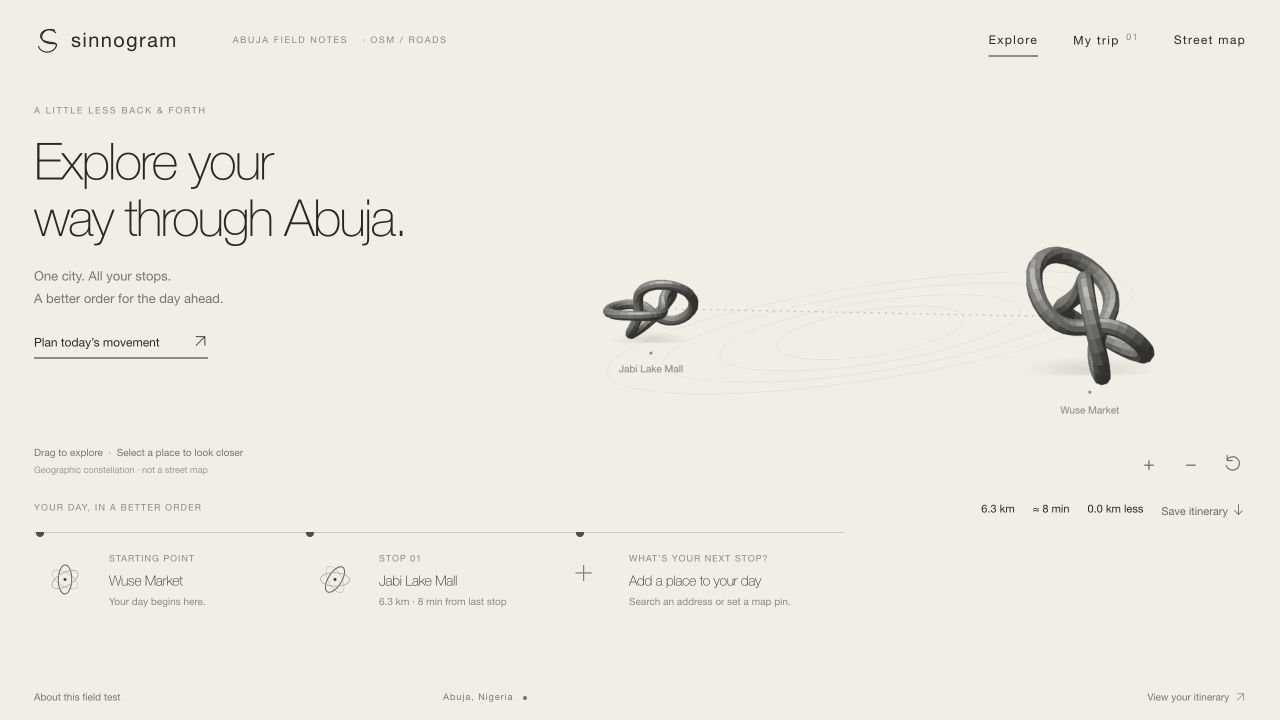
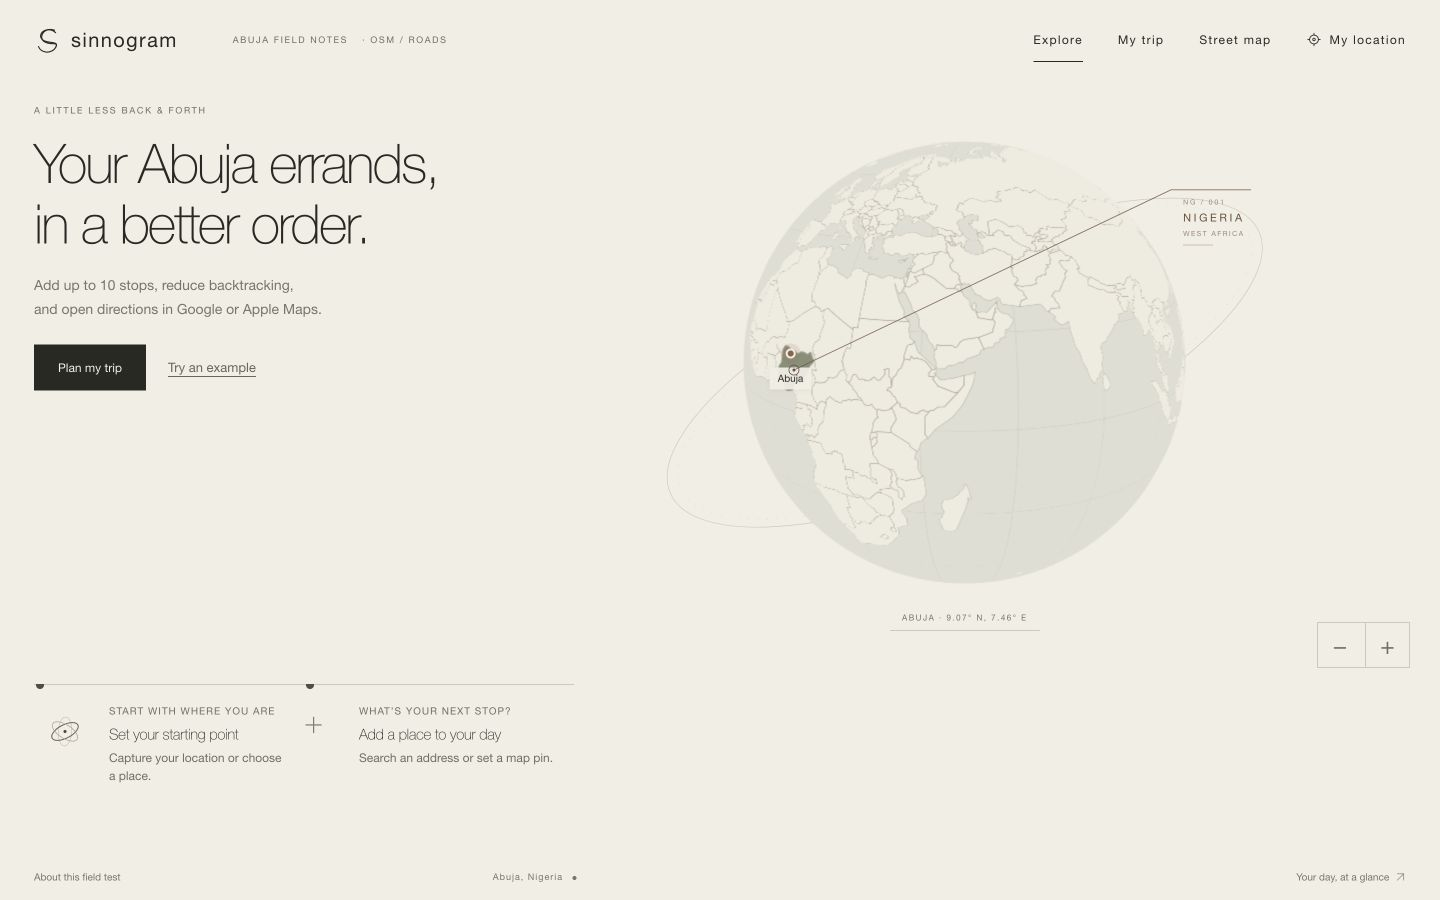
update

diff --git a/web/index.html b/web/index.html
@@ -1,9 +1,9 @@
 <!doctype html>
 <html lang="en">
-<head><meta charset="utf-8"><meta name="viewport" content="width=device-width,initial-scale=1,viewport-fit=cover"><meta name="theme-color" content="#f1eee5"><title>Sinnogram — Your Abuja errands, in a better order</title><link rel="manifest" href="/manifest.webmanifest"><link rel="icon" href="/icon.svg"><link rel="apple-touch-icon" href="/apple-touch-icon.png"><link rel="stylesheet" href="/vendor/leaflet.css"><link rel="stylesheet" href="/vendor/maplibre-gl.css"><link rel="stylesheet" href="/style.css?v=focused-planner-20261028"><script src="/vendor/leaflet.js" defer></script><script src="/vendor/maplibre-gl.js" defer></script><script src="/scene.js?v=focused-planner-20261028" defer></script><script src="/location.js?v=focused-planner-20261028" defer></script><script src="/app.js?v=focused-planner-20261028" defer></script></head>
+<head><meta charset="utf-8"><meta name="viewport" content="width=device-width,initial-scale=1,viewport-fit=cover"><meta name="theme-color" content="#f1eee5"><title>Sinnogram — Your Abuja errands, in a better order</title><link rel="manifest" href="/manifest.webmanifest"><link rel="icon" href="/icon.svg"><link rel="apple-touch-icon" href="/apple-touch-icon.png"><link rel="stylesheet" href="/vendor/leaflet.css"><link rel="stylesheet" href="/vendor/maplibre-gl.css"><link rel="stylesheet" href="/style.css?v=sinnogram-brand-20261028"><script src="/vendor/leaflet.js" defer></script><script src="/vendor/maplibre-gl.js" defer></script><script src="/scene.js?v=sinnogram-brand-20261028" defer></script><script src="/location.js?v=sinnogram-brand-20261028" defer></script><script src="/app.js?v=sinnogram-brand-20261028" defer></script></head>
 <body>
 <a class="skip" href="#plan-panel">Skip to trip planner</a>
-<header class="header"><a class="wordmark" href="/" aria-label="Sinnogram home"><svg class="brand-symbol" viewBox="0 0 32 32" aria-hidden="true" fill="none" stroke="currentColor" stroke-width="1.3"><path d="M25 8C17-1 3 8 9 15c5 6 20 1 16 9S8 32 5 23"/><path d="M24 5C12 0 4 13 12 18s16-1 13 6"/></svg><span class="brand-name">sinnogram</span></a><span class="edition">ABUJA FIELD NOTES <span id="provider-label">· CONNECTING</span></span><nav aria-label="Main navigation"><button id="nav-explore" class="nav-item active">Explore</button><button id="nav-plan" class="nav-item">My trip <span id="nav-count">00</span></button><button id="nav-map" class="nav-item">Street map</button><button id="nav-locate" class="nav-item live-nav" type="button" aria-label="Show my live location">My location</button></nav></header>
+<header class="header"><a class="wordmark" href="/" aria-label="Sinnogram home"><svg class="brand-symbol" viewBox="0 0 32 32" aria-hidden="true" fill="none" stroke="currentColor" stroke-width="1.3"><path d="M25 8C17-1 3 8 9 15c5 6 20 1 16 9S8 32 5 23"/><path d="M24 5C12 0 4 13 12 18s16-1 13 6"/></svg><span class="brand-name">sinnogram</span></a><span class="edition">ABUJA FIELD NOTES <span id="provider-label">· CONNECTING</span></span><nav aria-label="Main navigation"><button id="nav-explore" class="nav-item active">Explore</button><button id="nav-plan" class="nav-item">My trip</button><button id="nav-map" class="nav-item">Street map</button><button id="nav-locate" class="nav-item live-nav" type="button" aria-label="Show my live location">My location</button></nav></header>
 <main class="experience" id="experience">
 <section class="stage" aria-label="Interactive trip exploration">
 <div id="scene" role="region" aria-label="Interactive globe centred on Abuja"><svg class="globe-orbit" viewBox="0 0 600 500" aria-hidden="true"><ellipse cx="300" cy="250" rx="278" ry="94" transform="rotate(-24 300 250)"/><ellipse cx="300" cy="250" rx="268" ry="88" transform="rotate(-24 300 250)"/></svg><div id="globe-map"></div><div id="nigeria-callout" class="nigeria-callout" hidden><svg id="nigeria-leader" aria-hidden="true"><path id="nigeria-leader-path"/><circle id="nigeria-target" r="5"/><circle id="nigeria-target-core" r="1.5"/></svg><div id="nigeria-label" class="nigeria-label"><span class="nigeria-label-code">NG / 001</span><strong>NIGERIA</strong><span>WEST AFRICA</span></div></div><p id="globe-status" class="micro" role="status">Opening your world…</p><button id="globe-home" class="globe-home" type="button">ABUJA · 9.07° N, 7.46° E</button></div>
@@ -24,7 +24,7 @@
 <section class="journey" aria-label="Your journey timeline"><div class="journey-caption"><div id="trip-stats" hidden><span id="total"></span><span id="time"></span><strong id="saving"></strong><button id="share-trip" class="inline-link">Share trip</button><button id="download" class="inline-link">Save itinerary <svg class="ui-icon" viewBox="0 0 24 24" aria-hidden="true" focusable="false" fill="none" stroke="currentColor" stroke-width="1.4" stroke-linecap="round" stroke-linejoin="round"><path d="M12 4v16m-6-6 6 6 6-6"/></svg></button></div></div><div id="timeline" class="timeline"></div></section>
 </main>
 <footer><button id="about" class="footer-link">About this field test</button><span id="footer-status">Abuja, Nigeria <span class="status-dot"></span></span><button id="overview" class="footer-link">Your day, at a glance <svg class="ui-icon" viewBox="0 0 24 24" aria-hidden="true" focusable="false" fill="none" stroke="currentColor" stroke-width="1.4" stroke-linecap="round" stroke-linejoin="round"><path d="M5 19 19 5M5 5h14v14"/></svg></button></footer>
-<dialog id="about-dialog"><button id="close-about" class="close" aria-label="Close about">×</button><p class="eyebrow">SINNOGRAM / OPEN BETA</p><h2>Less backtracking.<br>More of your day.</h2><p>A Go route planner for your day across Abuja. Choose stops, confirm their locations, and organize the order of your trip.</p><p>The explore globe shows country outlines and your places in geographic context. Open Street map for roads and exact entrance pins. Globe connections illustrate visit order, not a driving path.</p><p>Live location is active while this website is open. It pauses in the background and requests a fresh fix when you return. It does not provide reliable tracking with the browser closed or phone locked.</p><p>Globe: MapLibre GL JS and public-domain Natural Earth country boundaries.</p><p>Search: local OSM/Overture records and Nominatim. Business listings may be outdated; confirm branch and entrance. Road estimates: OSRM / FOSSGIS. Free beta services: light use, shared request limits, no live traffic or uptime guarantee. Your searches and pins go to these providers. Avoid confidential addresses.</p><p><a href="https://www.openstreetmap.org/copyright" target="_blank" rel="noopener noreferrer">© OpenStreetMap contributors · ODbL</a> · <a href="https://www.openstreetmap.org/fixthemap" target="_blank" rel="noopener noreferrer">Fix the map</a> · <a href="https://operations.osmfoundation.org/policies/nominatim/" target="_blank" rel="noopener noreferrer">Search policy</a> · <a href="https://routing.openstreetmap.de/about.html" target="_blank" rel="noopener noreferrer">Routing & privacy</a></p></dialog>
+<dialog id="about-dialog"><button id="close-about" class="close" aria-label="Close about">×</button><p class="eyebrow">SINNOGRAM</p><h2>Your stops.<br>A better order.</h2><p>Add your places, plan your route, and open directions in Google or Apple Maps.</p><p>Live location works while Sinnogram is open and resumes when you return. Driving estimates exclude live traffic.</p><details class="planner-extra"><summary>Map credits &amp; privacy</summary><p>Maps and search use OpenStreetMap, Overture Maps and Nominatim; road estimates use OSRM / FOSSGIS. Searches and pins are sent to these providers. Trips are saved in your browser.</p><p>Globe: MapLibre GL JS and public-domain Natural Earth boundaries.</p><p><a href="https://www.openstreetmap.org/copyright" target="_blank" rel="noopener noreferrer">© OpenStreetMap contributors · ODbL</a> · <a href="https://operations.osmfoundation.org/policies/nominatim/" target="_blank" rel="noopener noreferrer">Search policy</a> · <a href="https://routing.openstreetmap.de/about.html" target="_blank" rel="noopener noreferrer">Routing &amp; privacy</a></p></details></dialog>
 <dialog id="bulk-dialog" aria-labelledby="bulk-title"><div class="bulk-heading"><p class="eyebrow">ALL YOUR STOPS / ONE PLACE</p><button id="bulk-close" type="button" class="close" aria-label="Close bulk stops">×</button></div><h2 id="bulk-title">Drop your stops.</h2><p>Paste a list or a message. We’ll find possible places, then you check the branches before organizing your trip.</p><form id="bulk-form"><label for="bulk-text">Where do you need to go?</label><textarea id="bulk-text" rows="5" maxlength="6000" placeholder="Jaiz Bank&#10;GCL Plaza, Wuse 2&#10;NIRSAL&#10;Taj Bank" required></textarea><p class="micro">Use one stop per line, semicolons, or “then”. Full addresses can keep their commas.</p><label class="checkbox"><input id="bulk-commas" type="checkbox"> Every comma separates a different stop</label><button id="bulk-analyze" type="submit" class="dark-button full">Find my stops <svg class="ui-icon" viewBox="0 0 24 24" aria-hidden="true" focusable="false" fill="none" stroke="currentColor" stroke-width="1.4" stroke-linecap="round" stroke-linejoin="round"><path d="M5 19 19 5M5 5h14v14"/></svg></button></form><p id="bulk-parse-note" class="micro"></p><p id="bulk-status" role="status" aria-live="polite" class="bulk-status"></p><div id="bulk-results"></div><button id="bulk-apply" type="button" class="dark-button full" hidden disabled>Add confirmed stops <svg class="ui-icon" viewBox="0 0 24 24" aria-hidden="true" focusable="false" fill="none" stroke="currentColor" stroke-width="1.4" stroke-linecap="round" stroke-linejoin="round"><path d="M5 19 19 5M5 5h14v14"/></svg></button><p class="micro">Up to 10 stops per trip, using the least-total-distance visit order. Your list is searched against Sinnogram’s location index; it does not guess missing entrances.</p><p class="micro">Place data: <a href="https://www.openstreetmap.org/copyright" target="_blank" rel="noopener noreferrer">© OpenStreetMap</a> · <a href="/api/location-data?source=overture" target="_blank" rel="noopener noreferrer">Overture Maps &amp; source contributors</a></p></dialog>
 <script type="application/json" id="app-version">{"version":"0.6"}</script>
 <dialog id="library-dialog" aria-labelledby="library-title"><button id="library-close" class="close" aria-label="Close saved places">×</button><h2 id="library-title">Your usual places.</h2><p id="library-status" class="micro" role="status"></p><h3>Home, Work &amp; favourites</h3><div id="saved-places"></div><form id="save-place-form" hidden><label for="saved-place-name">Save the place you’re viewing as</label><input id="saved-place-name" placeholder="Home, Work, or a favourite" maxlength="80" required><button type="submit" class="dark-button">Save place</button></form><h3>Recurring trips</h3><div id="saved-trips"></div><form id="save-trip-form"><label for="saved-trip-name">Name this trip</label><input id="saved-trip-name" placeholder="Monday errands" maxlength="80" required><button type="submit" class="dark-button">Save current trip</button></form></dialog>

diff --git a/web/app.js b/web/app.js
@@ -228,7 +228,7 @@ function renderStopList(){
 function render(){
   if(!config)return;
   $('optimize').disabled=busy||locating||!startPlace;$('start-required').hidden=!!startPlace;
-  $('nav-count').textContent=number(stops.length);$('stop-count').textContent=`${number(stops.length)} / 10`;
+  $('stop-count').textContent=`${number(stops.length)} / 10`;
   renderStopList();
   const timeline=$('timeline');timeline.replaceChildren();
   const points=startPlace?journeyPoints():[null,...stops];

diff --git a/README.md b/README.md
@@ -9,7 +9,7 @@ You have six places to be. Somehow, you end up crossing the same part of Abuja f
 
 **Open beta. No sign-in required. Abuja first.**
 
-<p align="center"><img src="docs/explore.png" alt="Sinnogram's cream interface, metallic route sculptures, and trip timeline" width="100%"></p>
+<p align="center"><img src="docs/explore.png" alt="Sinnogram's cream interface, geographic globe, and trip timeline" width="100%"></p>
 
 ### A day, sorted
 
@@ -27,5 +27,5 @@ Come back from Maps and your itinerary is still there. It stays on your device f
 - A **live GPS marker**, with follow and recenter controls, that updates while the app is open and resumes on return.
 - A location index filtered to the **whole FCT and all six area councils**, with versioned OSM/Overture imports and council-level coverage checks.
 - Multiline addresses, street fallbacks, and a real map for confirming the right building.
-- A mobile interface with sculptural waypoints, a horizontal trip timeline, and proper SVG icons. No surprise blue emoji buttons.
+- A mobile interface with a geographic globe, city route map, and trip timeline.
 - A **Go backend**, a small browser frontend, and no frontend build ceremony.
